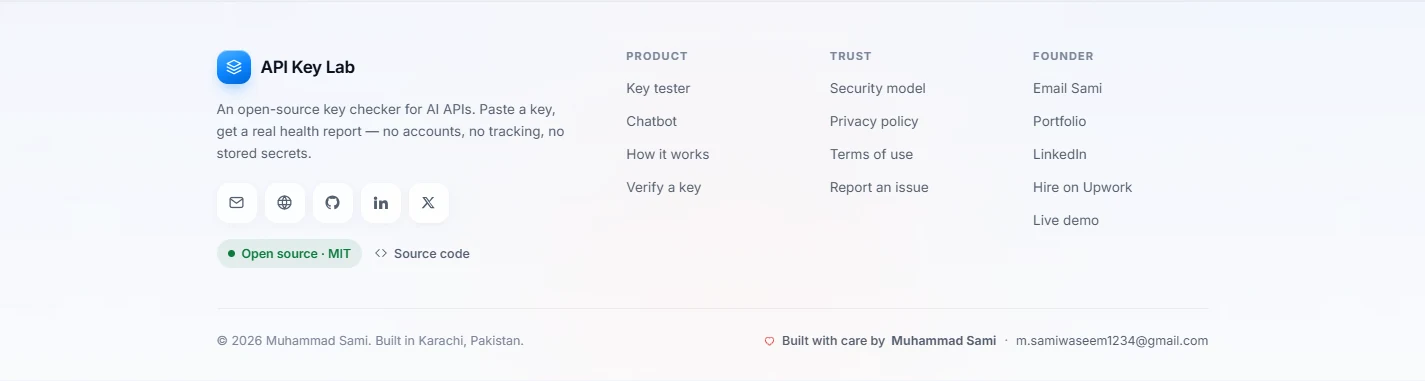
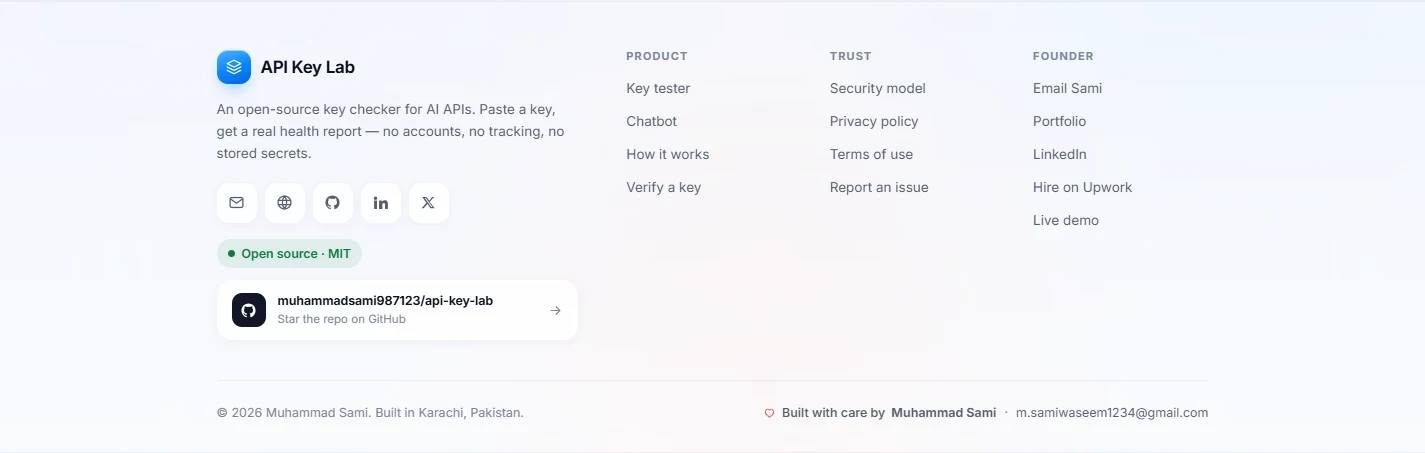
feat(navbar): add a GitHub link to the right corner, with a footer repo card
Header: wrap the CTA and a new .nav-repo chip in a .header-actions group so the GitHub link sits at the far right of the navbar. Footer: replace the plain source-code link with a .footer-repo card (icon, repo name, star hint, arrow).

Both ship a specular sweep, a hover lift, border glow, icon rotate and arrow slide. Reduced-motion is respected.

Local dev server: switched static assets from max-age=3600 to no-cache with an ETag so CSS and JS edits are picked up on the next reload instead of an hour later.

diff --git a/frontend/assets/css/glass.css b/frontend/assets/css/glass.css
@@ -1747,3 +1747,144 @@ details.raw pre {
   .faq summary,
   .advanced { transition: none; }
 }
+
+/* ---------- 23. Repository links (navbar + footer) ---------- */
+.header-actions {
+  display: flex;
+  align-items: center;
+  gap: 10px;
+  flex: none;
+}
+
+.nav-repo {
+  position: relative;
+  isolation: isolate;
+  overflow: hidden;
+  display: inline-flex;
+  align-items: center;
+  gap: 7px;
+  min-height: 40px;
+  padding: 9px 14px;
+  border-radius: var(--radius-pill);
+  font-size: 13.5px;
+  font-weight: 550;
+  color: var(--muted);
+  background: rgba(255, 255, 255, 0.68);
+  border: 1px solid rgba(255, 255, 255, 0.9);
+  box-shadow: var(--shadow-soft), inset 0 1px 0 #fff;
+  transition: color var(--dur) var(--ease), transform var(--dur) var(--ease),
+              box-shadow var(--dur) var(--ease), border-color var(--dur) var(--ease);
+}
+
+/* a single specular sweep that crosses the chip on hover */
+.nav-repo::before,
+.footer-repo::before {
+  content: "";
+  position: absolute;
+  inset: 0;
+  z-index: -1;
+  background: linear-gradient(100deg,
+    rgba(255, 255, 255, 0) 22%,
+    rgba(255, 255, 255, 0.9) 46%,
+    rgba(255, 255, 255, 0) 64%);
+  transform: translateX(-140%);
+  transition: transform 0.7s var(--ease);
+  pointer-events: none;
+}
+
+.nav-repo:hover {
+  color: var(--text);
+  text-decoration: none;
+  transform: translateY(-1px);
+  border-color: rgba(10, 132, 255, 0.34);
+  box-shadow: 0 10px 22px -15px rgba(16, 24, 40, 0.55),
+              0 0 0 4px rgba(10, 132, 255, 0.07),
+              inset 0 1px 0 #fff;
+}
+.nav-repo:hover::before { transform: translateX(140%); }
+.nav-repo:active { transform: scale(0.97); }
+
+.nav-repo-icon { display: grid; place-items: center; transition: transform 0.45s var(--ease); }
+.nav-repo-icon svg { width: 16px; height: 16px; }
+.nav-repo:hover .nav-repo-icon { transform: rotate(-10deg) scale(1.14); }
+.nav-repo-label { white-space: nowrap; }
+
+.footer-repo {
+  position: relative;
+  isolation: isolate;
+  overflow: hidden;
+  display: inline-flex;
+  align-items: center;
+  gap: 12px;
+  max-width: 100%;
+  flex: 1 1 auto;
+  padding: 10px 14px;
+  border-radius: 15px;
+  background: rgba(255, 255, 255, 0.8);
+  border: 1px solid rgba(255, 255, 255, 0.92);
+  box-shadow: var(--shadow-soft), inset 0 1px 0 #fff;
+  color: var(--muted);
+  transition: color var(--dur) var(--ease), transform var(--dur) var(--ease),
+              box-shadow var(--dur) var(--ease), border-color var(--dur) var(--ease);
+}
+.footer-repo:hover {
+  color: var(--text);
+  text-decoration: none;
+  transform: translateY(-2px);
+  border-color: rgba(10, 132, 255, 0.3);
+  box-shadow: 0 18px 34px -26px rgba(16, 24, 40, 0.6),
+              inset 0 1px 0 #fff;
+}
+.footer-repo:hover::before { transform: translateX(140%); }
+
+.footer-repo-icon {
+  flex: none;
+  width: 34px;
+  height: 34px;
+  display: grid;
+  place-items: center;
+  border-radius: 10px;
+  background: #111827;
+  color: #fff;
+  transition: transform 0.45s var(--ease), background var(--dur) var(--ease);
+}
+.footer-repo:hover .footer-repo-icon { transform: rotate(-8deg) scale(1.06); }
+
+.footer-repo-text { display: flex; flex-direction: column; min-width: 0; }
+.footer-repo-text strong {
+  font-size: 12.5px;
+  font-weight: 650;
+  letter-spacing: -0.01em;
+  color: var(--text);
+  white-space: nowrap;
+  overflow: hidden;
+  text-overflow: ellipsis;
+}
+.footer-repo-text small { font-size: 11.5px; color: var(--faint); margin-top: 1px; }
+
+.footer-repo-arrow {
+  margin-left: auto;
+  display: grid;
+  place-items: center;
+  color: var(--faint);
+  transition: transform 0.35s var(--ease), color var(--dur) var(--ease);
+}
+.footer-repo-arrow svg { width: 15px; height: 15px; }
+.footer-repo:hover .footer-repo-arrow { transform: translateX(4px); color: var(--accent); }
+
+@media (max-width: 980px) {
+  .nav-repo-label { display: none; }
+  .nav-repo { padding: 9px 12px; }
+}
+
+@media (prefers-reduced-motion: reduce) {
+  .nav-repo,
+  .nav-repo::before,
+  .nav-repo-icon,
+  .footer-repo,
+  .footer-repo::before,
+  .footer-repo-icon,
+  .footer-repo-arrow { transition: none; }
+  .nav-repo:hover,
+  .footer-repo:hover { transform: none; }
+}

diff --git a/frontend/chat.html b/frontend/chat.html
@@ -45,7 +45,13 @@
       <a href="index.html#how" data-icon-inline="book">How it works</a>
       <a href="security.html" data-page="security.html" data-icon-inline="shield">Security</a>
     </nav>
-    <a class="header-cta" href="index.html" data-icon-inline="key">Check a key</a>
+    <div class="header-actions">
+      <a class="header-cta" href="index.html" data-icon-inline="key">Check a key</a>
+      <a class="nav-repo" href="https://github.com/muhammadsami987123/api-key-lab" target="_blank" rel="noopener noreferrer" aria-label="API Key Lab on GitHub">
+        <span class="nav-repo-icon" data-icon="github" data-icon-size="16"></span>
+        <span class="nav-repo-label">GitHub</span>
+      </a>
+    </div>
   </div>
 </header>
 
@@ -197,8 +203,13 @@
         </div>
         <div class="footer-open">
           <span class="pill pill-ok"><span class="pill-dot"></span>Open source · MIT</span>
-          <a class="footer-src" href="https://github.com/muhammadsami987123/api-key-lab" target="_blank" rel="noopener noreferrer">
-            <span data-icon="code" data-icon-size="14"></span> Source code
+          <a class="footer-repo" href="https://github.com/muhammadsami987123/api-key-lab" target="_blank" rel="noopener noreferrer">
+            <span class="footer-repo-icon" data-icon="github" data-icon-size="17"></span>
+            <span class="footer-repo-text">
+              <strong>muhammadsami987123/api-key-lab</strong>
+              <small>Star the repo on GitHub</small>
+            </span>
+            <span class="footer-repo-arrow" data-icon="arrow-right" data-icon-size="15"></span>
           </a>
         </div>
       </div>

diff --git a/frontend/privacy.html b/frontend/privacy.html
@@ -29,7 +29,13 @@
       <a href="index.html#how" data-icon-inline="book">How it works</a>
       <a href="security.html" data-page="security.html" data-icon-inline="shield">Security</a>
     </nav>
-    <a class="header-cta" href="index.html" data-icon-inline="key">Check a key</a>
+    <div class="header-actions">
+      <a class="header-cta" href="index.html" data-icon-inline="key">Check a key</a>
+      <a class="nav-repo" href="https://github.com/muhammadsami987123/api-key-lab" target="_blank" rel="noopener noreferrer" aria-label="API Key Lab on GitHub">
+        <span class="nav-repo-icon" data-icon="github" data-icon-size="16"></span>
+        <span class="nav-repo-label">GitHub</span>
+      </a>
+    </div>
   </div>
 </header>
 
@@ -116,8 +122,13 @@
         </div>
         <div class="footer-open">
           <span class="pill pill-ok"><span class="pill-dot"></span>Open source · MIT</span>
-          <a class="footer-src" href="https://github.com/muhammadsami987123/api-key-lab" target="_blank" rel="noopener noreferrer">
-            <span data-icon="code" data-icon-size="14"></span> Source code
+          <a class="footer-repo" href="https://github.com/muhammadsami987123/api-key-lab" target="_blank" rel="noopener noreferrer">
+            <span class="footer-repo-icon" data-icon="github" data-icon-size="17"></span>
+            <span class="footer-repo-text">
+              <strong>muhammadsami987123/api-key-lab</strong>
+              <small>Star the repo on GitHub</small>
+            </span>
+            <span class="footer-repo-arrow" data-icon="arrow-right" data-icon-size="15"></span>
           </a>
         </div>
       </div>

diff --git a/frontend/security.html b/frontend/security.html
@@ -29,7 +29,13 @@
       <a href="index.html#how" data-icon-inline="book">How it works</a>
       <a href="security.html" data-page="security.html" data-icon-inline="shield">Security</a>
     </nav>
-    <a class="header-cta" href="index.html" data-icon-inline="key">Check a key</a>
+    <div class="header-actions">
+      <a class="header-cta" href="index.html" data-icon-inline="key">Check a key</a>
+      <a class="nav-repo" href="https://github.com/muhammadsami987123/api-key-lab" target="_blank" rel="noopener noreferrer" aria-label="API Key Lab on GitHub">
+        <span class="nav-repo-icon" data-icon="github" data-icon-size="16"></span>
+        <span class="nav-repo-label">GitHub</span>
+      </a>
+    </div>
   </div>
 </header>
 
@@ -118,8 +124,13 @@
         </div>
         <div class="footer-open">
           <span class="pill pill-ok"><span class="pill-dot"></span>Open source · MIT</span>
-          <a class="footer-src" href="https://github.com/muhammadsami987123/api-key-lab" target="_blank" rel="noopener noreferrer">
-            <span data-icon="code" data-icon-size="14"></span> Source code
+          <a class="footer-repo" href="https://github.com/muhammadsami987123/api-key-lab" target="_blank" rel="noopener noreferrer">
+            <span class="footer-repo-icon" data-icon="github" data-icon-size="17"></span>
+            <span class="footer-repo-text">
+              <strong>muhammadsami987123/api-key-lab</strong>
+              <small>Star the repo on GitHub</small>
+            </span>
+            <span class="footer-repo-arrow" data-icon="arrow-right" data-icon-size="15"></span>
           </a>
         </div>
       </div>

diff --git a/frontend/terms.html b/frontend/terms.html
@@ -29,7 +29,13 @@
       <a href="index.html#how" data-icon-inline="book">How it works</a>
       <a href="security.html" data-page="security.html" data-icon-inline="shield">Security</a>
     </nav>
-    <a class="header-cta" href="index.html" data-icon-inline="key">Check a key</a>
+    <div class="header-actions">
+      <a class="header-cta" href="index.html" data-icon-inline="key">Check a key</a>
+      <a class="nav-repo" href="https://github.com/muhammadsami987123/api-key-lab" target="_blank" rel="noopener noreferrer" aria-label="API Key Lab on GitHub">
+        <span class="nav-repo-icon" data-icon="github" data-icon-size="16"></span>
+        <span class="nav-repo-label">GitHub</span>
+      </a>
+    </div>
   </div>
 </header>
 
@@ -121,8 +127,13 @@
         </div>
         <div class="footer-open">
           <span class="pill pill-ok"><span class="pill-dot"></span>Open source · MIT</span>
-          <a class="footer-src" href="https://github.com/muhammadsami987123/api-key-lab" target="_blank" rel="noopener noreferrer">
-            <span data-icon="code" data-icon-size="14"></span> Source code
+          <a class="footer-repo" href="https://github.com/muhammadsami987123/api-key-lab" target="_blank" rel="noopener noreferrer">
+            <span class="footer-repo-icon" data-icon="github" data-icon-size="17"></span>
+            <span class="footer-repo-text">
+              <strong>muhammadsami987123/api-key-lab</strong>
+              <small>Star the repo on GitHub</small>
+            </span>
+            <span class="footer-repo-arrow" data-icon="arrow-right" data-icon-size="15"></span>
           </a>
         </div>
       </div>

diff --git a/frontend/index.html b/frontend/index.html
@@ -49,7 +49,13 @@
       <a href="#how" data-icon-inline="book">How it works</a>
       <a href="security.html" data-page="security.html" data-icon-inline="shield">Security</a>
     </nav>
-    <a class="header-cta" href="#key-card" data-icon-inline="key">Verify a key</a>
+    <div class="header-actions">
+      <a class="header-cta" href="#key-card" data-icon-inline="key">Verify a key</a>
+      <a class="nav-repo" href="https://github.com/muhammadsami987123/api-key-lab" target="_blank" rel="noopener noreferrer" aria-label="API Key Lab on GitHub">
+        <span class="nav-repo-icon" data-icon="github" data-icon-size="16"></span>
+        <span class="nav-repo-label">GitHub</span>
+      </a>
+    </div>
   </div>
 </header>
 
@@ -353,8 +359,13 @@
         </div>
         <div class="footer-open">
           <span class="pill pill-ok"><span class="pill-dot"></span>Open source · MIT</span>
-          <a class="footer-src" href="https://github.com/muhammadsami987123/api-key-lab" target="_blank" rel="noopener noreferrer">
-            <span data-icon="code" data-icon-size="14"></span> Source code
+          <a class="footer-repo" href="https://github.com/muhammadsami987123/api-key-lab" target="_blank" rel="noopener noreferrer">
+            <span class="footer-repo-icon" data-icon="github" data-icon-size="17"></span>
+            <span class="footer-repo-text">
+              <strong>muhammadsami987123/api-key-lab</strong>
+              <small>Star the repo on GitHub</small>
+            </span>
+            <span class="footer-repo-arrow" data-icon="arrow-right" data-icon-size="15"></span>
           </a>
         </div>
       </div>

diff --git a/server.js b/server.js
@@ -128,10 +128,11 @@ function serveStatic(req, res, pathname, startedAt) {
   const type = MIME[path.extname(file).toLowerCase()] || 'application/octet-stream';
   const headers = Object.assign({
     'Content-Type': type,
-    /* HTML stays fresh; assets are cacheable like on Vercel. */
+    /* HTML stays fresh; assets revalidate through an ETag so a CSS or JS
+       edit is picked up on the next reload instead of an hour later. */
     'Cache-Control': type.startsWith('text/html')
       ? 'no-store, max-age=0'
-      : 'public, max-age=3600, must-revalidate'
+      : 'no-cache'
   }, COMMON_HEADERS);
 
   fs.stat(file, (err, stat) => {
@@ -139,9 +140,21 @@ function serveStatic(req, res, pathname, startedAt) {
       notFound(res, pathname);
       return;
     }
+
+    const etag = 'W/"' + stat.size.toString(16) + '-' + Math.floor(stat.mtimeMs).toString(16) + '"';
+    headers.ETag = etag;
+
+    if (req.headers['if-none-match'] === etag) {
+      res.writeHead(304, headers);
+      res.end();
+      log(req, 304, startedAt);
+      return;
+    }
+
     res.writeHead(200, Object.assign({ 'Content-Length': stat.size }, headers));
     if (req.method === 'HEAD') {
       res.end();
+      log(req, res.statusCode, startedAt);
       return;
     }
     const stream = fs.createReadStream(file);
